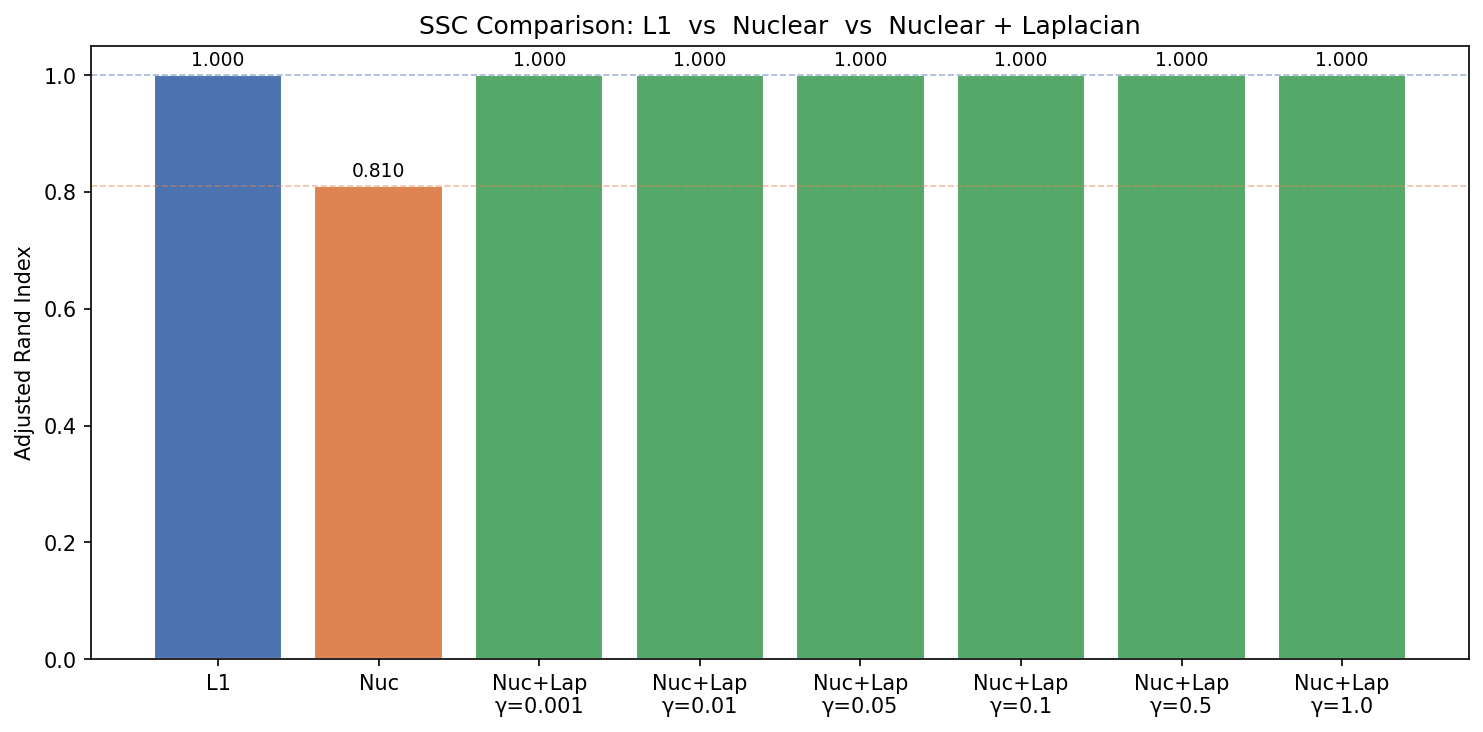
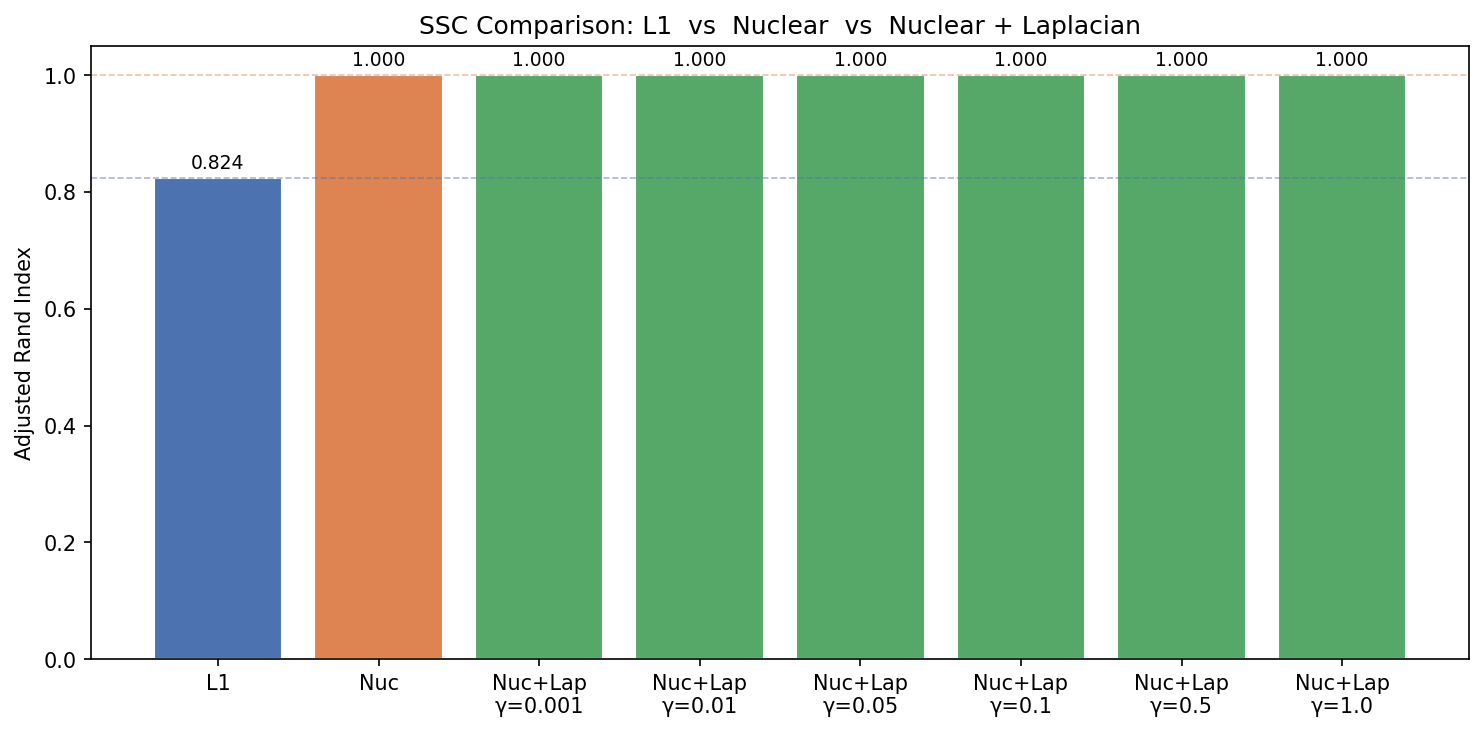
code for lap

diff --git a/ssc_admm_nuc_lap.py b/ssc_admm_nuc_lap.py
@@ -68,8 +68,8 @@ def generate_block_diagonal_matrix(cluster_sizes, p_in=0.30, p_out=0.05, seed=No
     labels = np.repeat(np.arange(len(cluster_sizes)), cluster_sizes)
     same = (labels[:, None] == labels[None, :])
     probs = np.where(same, p_in, p_out)
-    upper = np.triu(rng.random((N, N)) < probs, k=1)
-    Y = (upper + upper.T).astype(float)
+    upper = np.triu(rng.random((N, N)) < probs, k=0).astype(float)
+    Y = upper + upper.T - np.diag(np.diag(upper))
     return Y, labels
 
 
@@ -88,8 +88,16 @@ def graph_laplacian(C):
 
 # ── ADMM solver ──────────────────────────────────────────────────────────────
 
-def ssc_admm_nuc_lap(Y, lambda_e=1.0, lambda_z=0.1, gamma=0.1, mu=1.0,
-                     max_iter=500, tol=1e-4):
+def ssc_admm_nuc_lap(
+    Y,
+    lambda_e=1.0,
+    lambda_z=0.1,
+    gamma=0.1,
+    mu=1.0,
+    rho=1.0,
+    max_iter=500,
+    tol=1e-4,
+):
     """
     Nuclear-norm SSC + γ tr(C^T L C) Laplacian regularisation.
 
@@ -109,63 +117,70 @@ def ssc_admm_nuc_lap(Y, lambda_e=1.0, lambda_z=0.1, gamma=0.1, mu=1.0,
     """
     n, N = Y.shape
 
-    X       = np.zeros((N, N))
-    J       = np.zeros((N, N))
-    C       = np.zeros((N, N))
-    E       = np.zeros((n, N))
-    Lambda1 = np.zeros((N, N))
-    Lambda2 = np.zeros((N, N))
+    # Match `ssc_admm_nuc.py` variable naming / constraints:
+    #   X - C + diag(C) = 0   and   C - J = 0
+    X = np.zeros((N, N))
+    C = np.zeros((N, N))
+    J = np.zeros((N, N))
+    E = np.zeros((n, N))
 
-    In1 = np.eye(N - 1)
+    Lambda = np.zeros((N, N))
+    Gamma = np.zeros((N, N))
+
+    YtY = Y.T @ Y
+    A_inv = np.linalg.inv(lambda_z * YtY + mu * np.eye(N))
+
     I_N = np.eye(N)
 
     for it in range(max_iter):
+        X_prev = X.copy()
         J_prev = J.copy()
         C_prev = C.copy()
 
-        # ── 1. J-update: SVT_{1/μ}(X + Λ₁/μ) ───────────────────────────
-        U, s, Vt = np.linalg.svd(X + Lambda1 / mu, full_matrices=False)
-        J = (U * soft_threshold(s, 1.0 / mu)) @ Vt
+        # X-update (same as nuclear-norm objective):
+        #   (lambda_z Y^T Y + mu I) X = lambda_z Y^T (Y - E) + mu (C - diag(C)) - Lambda
+        C_off = C.copy()
+        np.fill_diagonal(C_off, 0.0)
+        RHS = lambda_z * (Y.T @ (Y - E)) + mu * C_off - Lambda
+        X = A_inv @ RHS
 
-        # ── 2. C-update: (2γ L + μI) C = μ V,  V = X + Λ₂/μ ────────────
+        # J-update (same as nuclear-norm objective): SVT on (C + Gamma/rho)
+        U, s, Vt = np.linalg.svd(C + Gamma / rho, full_matrices=False)
+        J = (U * soft_threshold(s, 1.0 / rho)) @ Vt
+
+        # C-update (only difference): Laplacian-regularised solve using same A, B
+        # A and B follow `ssc_admm_nuc.py` exactly:
+        A = X + Lambda / mu
+        B = J - Gamma / rho
+
+        # Freeze Laplacian at previous C to avoid differentiating through |C|
         L = graph_laplacian(C_prev)
-        V = X + Lambda2 / mu
-        C = np.linalg.solve(2.0 * gamma * L + mu * I_N, mu * V)
-        np.fill_diagonal(C, 0.0)
 
-        # ── 3. X-update: column-wise least squares ───────────────────────
-        Vtilde1 = J - Lambda1 / mu
-        Vtilde2 = C - Lambda2 / mu
-        for j in range(N):
-            mask = np.ones(N, dtype=bool)
-            mask[j] = False
-            idx = np.flatnonzero(mask)
-            Ymj = Y[:, idx]
-            A_j = lambda_z * (Ymj.T @ Ymj) + 2.0 * mu * In1
-            b_j = (lambda_z * Ymj.T @ (Y[:, j] - E[:, j])
-                   + mu * Vtilde1[idx, j]
-                   + mu * Vtilde2[idx, j])
-            X[idx, j] = np.linalg.solve(A_j, b_j)
-        np.fill_diagonal(X, 0.0)
+        # Solve: (2γ L + (μ+ρ)I) C = μA + ρB
+        C = np.linalg.solve(2.0 * gamma * L + (mu + rho) * I_N, mu * A + rho * B)
 
-        # ── 4. E-update: soft-threshold ──────────────────────────────────
+        # Keep the same diagonal handling as the nuclear-norm version:
+        np.fill_diagonal(C, np.diag(B))
+
+        # E-update (same as nuclear-norm objective)
         E = soft_threshold(Y - Y @ X, lambda_e / lambda_z)
 
-        # ── 5. Dual ascent ───────────────────────────────────────────────
-        Lambda1 += mu * (X - J)
-        Lambda2 += mu * (X - C)
+        # Dual updates (same as nuclear-norm objective)
+        Lambda += mu * (X - C + np.diag(np.diag(C)))
+        Gamma += rho * (C - J)
 
-        # ── Convergence ──────────────────────────────────────────────────
-        p_res = max(np.linalg.norm(X - J, 'fro'),
-                    np.linalg.norm(X - C, 'fro'))
-        d_res = max(mu * np.linalg.norm(J - J_prev, 'fro'),
-                    mu * np.linalg.norm(C - C_prev, 'fro'))
+        primal1 = np.linalg.norm(X - C + np.diag(np.diag(C)), 'fro')
+        primal2 = np.linalg.norm(C - J, 'fro')
+        primal_res = max(primal1, primal2)
+        dual_res = max(mu * np.linalg.norm(X - X_prev, 'fro'),
+                       rho * np.linalg.norm(J - J_prev, 'fro'))
         if (it + 1) % 50 == 0:
-            print(f"  iter {it+1:4d}  primal={p_res:.2e}  dual={d_res:.2e}")
-        if p_res < tol and d_res < tol:
+            print(f"  iter {it+1:4d}  primal={primal_res:.2e}  dual={dual_res:.2e}")
+        if primal_res < tol and dual_res < tol:
             print(f"  Converged at iter {it + 1}.")
             break
 
+    # Return order compatible with benchmark usage: X, J, C, E
     return X, J, C, E
 
 
@@ -216,7 +231,7 @@ if __name__ == '__main__':
     cluster_sizes = [20, 25, 15, 20]
 
     Y, true_labels = generate_block_diagonal_matrix(
-        cluster_sizes, p_in=0.50, p_out=0.05, seed=42
+        cluster_sizes, p_in=0.75, p_out=0.05, seed=42
     )
     N = Y.shape[0]
     print(f"Y: {Y.shape},  clusters: {cluster_sizes}\n")
@@ -224,7 +239,7 @@ if __name__ == '__main__':
     # ── Nuclear-norm baseline ────────────────────────────────────────
     print("Running Nuclear-norm SSC ...")
     t0 = time.perf_counter()
-    X_nuc, _, _ = ssc_nuc(Y, lambda_e=1.0, lambda_z=0.1, mu=1.0)
+    X_nuc, _C_nuc, _J_nuc, _E_nuc = ssc_nuc(Y, lambda_e=1.0, lambda_z=0.1, mu=1.0)
     t_nuc = time.perf_counter() - t0
     pred_nuc = cluster_from_C(X_nuc, k)
     ari_nuc = adjusted_rand_score(true_labels, pred_nuc)
@@ -233,7 +248,7 @@ if __name__ == '__main__':
     # ── L1-norm baseline ─────────────────────────────────────────────
     print("Running L1-norm SSC ...")
     t0 = time.perf_counter()
-    X_l1, _, _ = ssc_l1(Y, lambda_e=1.0, lambda_z=10.0, mu=1.0)
+    X_l1, _C_l1, _E_l1 = ssc_l1(Y, lambda_e=1.0, lambda_z=10.0, mu=1.0)
     t_l1 = time.perf_counter() - t0
     pred_l1 = cluster_from_C(X_l1, k)
     ari_l1 = adjusted_rand_score(true_labels, pred_l1)

diff --git a/benchmark_norms.py b/benchmark_norms.py
@@ -107,7 +107,7 @@ TEST_CASES = [
 # Shared ADMM hyper-parameters
 L1_PARAMS      = dict(lambda_e=1.0, lambda_z=10.0, mu=1.0, max_iter=500, tol=1e-4)
 NUC_PARAMS     = dict(lambda_e=1.0, lambda_z=0.1,  mu=1.0, max_iter=500, tol=1e-4)
-NUC_LAP_PARAMS = dict(lambda_e=1.0, lambda_z=0.1, gamma=0.1, mu=1.0, max_iter=500, tol=1e-4)
+NUC_LAP_PARAMS = dict(lambda_e=1.0, lambda_z=0.1, gamma=0.1, mu=1.0, rho=1.0, max_iter=500, tol=1e-4)
 
 METHODS = ["l1", "nuc", "nuc_lap"]
 METHOD_LABELS = {"l1": "L1", "nuc": "Nuc", "nuc_lap": "Nuc+Lap"}
@@ -123,7 +123,7 @@ def run_one(Y, true_labels, k, method="l1"):
     if method == "l1":
         X, _C, _E = ssc_l1(Y, **L1_PARAMS)
     elif method == "nuc":
-        X, _J, _E = ssc_nuc(Y, **NUC_PARAMS)
+        X, _C, _J, _E = ssc_nuc(Y, **NUC_PARAMS)
     elif method == "nuc_lap":
         X, _J, _C, _E = ssc_admm_nuc_lap(Y, **NUC_LAP_PARAMS)
     else:
